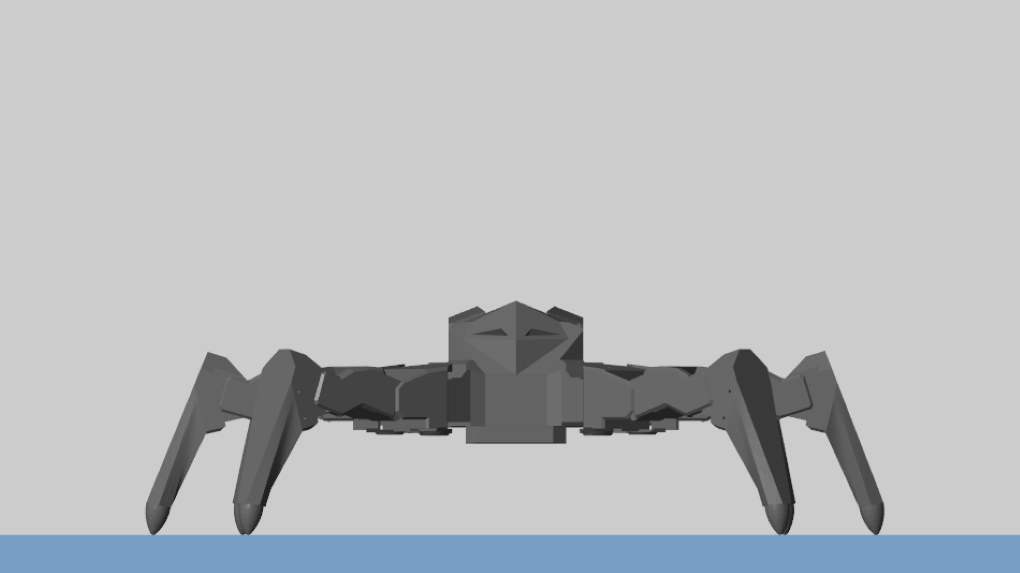
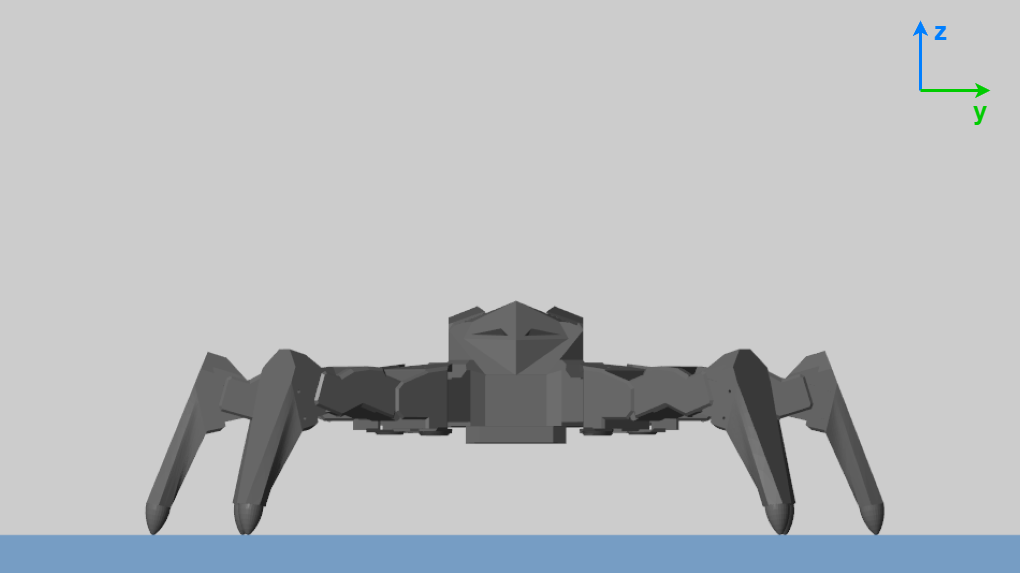
Created the 4 final RL graphs included in the thesis; fixed some TODOs

diff --git a/documents/chapter/results.tex b/documents/chapter/results.tex
@@ -61,7 +61,7 @@ A comparison of the thorax's height differences during movement, when under cont
 	\begin{subfigure}{\textwidth} % this sets the figure to be max half the width of the page
 		\centering
 		% include first image
-		\includegraphics[width=\linewidth]{ThoraxHeight_firstPID.PNG}  % this sets the image to fill 90% of the available space -> 45% of the line width in total. 
+		\includegraphics[width=.9\linewidth]{ThoraxHeight_firstPID.PNG}  % this sets the image to fill 90% of the available space -> 45% of the line width in total. 
 		\caption{}
 		\label{figure: Thorax Height graph, bad tuning}
 	\end{subfigure}
@@ -69,7 +69,7 @@ A comparison of the thorax's height differences during movement, when under cont
 	\begin{subfigure}{\textwidth}
 		\centering
 		% include third image
-		\includegraphics[width=\linewidth]{ThoraxHeight_retunedPID.PNG}   % this width should be half of the width of the other two images
+		\includegraphics[width=.9\linewidth]{ThoraxHeight_retunedPID.PNG}   % this width should be half of the width of the other two images
 		\caption{}
 		\label{figure: Thorax height graph, re-tuning}
 	\end{subfigure}
@@ -257,18 +257,18 @@ We therefore abstain from comparing the algorithms separately.
 	\begin{subfigure}{\textwidth} % this sets the figure to be max half the width of the page
 		\centering
 		% include first image
-		\includegraphics[width=\linewidth]{graphs/firstSuccess_146reward}  % this sets the image to fill 90% of the available space -> 45% of the line width in total. 
+		\includegraphics[width=\linewidth]{graphs/cropped/exploitGraph_cropped.PNG}  % this sets the image to fill 90% of the available space -> 45% of the line width in total. 
 		\caption{}
 		\label{figure: RL a}
 	\end{subfigure}
 	\begin{subfigure}{\textwidth}
 		\centering
 		% include second image
-		\includegraphics[width=\linewidth]{graphs/DDPG_reward_180.PNG}  
+		\includegraphics[width=\linewidth]{graphs/cropped/firstSuccess_146reward_cropped.PNG}  
 		\caption{}
 		\label{figure: RL b}
 	\end{subfigure} 
-		\caption[DDPG training graphs (1)]{DDPG training graphs (1). (a) first Success 146. (b) DDPG Reward 180. The graphs above each depict the learning curve of a RL agent. The dark blue graph represents the average reward (running average over the last 250 Episodes) and each data point on the light blue graph represents the reward of a specific episode.
+		\caption[Training graphs (1)]{Training graphs (1): Each graph depicts the learning curve of a RL agent. The dark blue graph represents the average reward over a running average of 250 episodes, while each data point on the light blue graph represents the reward obtained during a specific episode. (a) Jumping exploit learning curve. (b) Reward spiking.
 		}
 	\label{figure: DDPG learning graphs 1}
 \end{figure}
@@ -277,18 +277,18 @@ We therefore abstain from comparing the algorithms separately.
 	\begin{subfigure}{\textwidth} % this sets the figure to be max half the width of the page
 		\centering
 		% include first image
-		\includegraphics[width=\linewidth]{graphs/redefinedReward_50x_vx.PNG}  % this sets the image to fill 90% of the available space -> 45% of the line width in total. 
+		\includegraphics[width=\linewidth]{graphs/cropped/flatlining_cropped.PNG}  % this sets the image to fill 90% of the available space -> 45% of the line width in total. 
 		\caption{}
 		\label{figure: RL c}
 	\end{subfigure}
 	\begin{subfigure}{\textwidth}
 		\centering
 		% include second image
-		\includegraphics[width=\linewidth]{graphs/lastAgent_graph}  
+		\includegraphics[width=\linewidth]{graphs/cropped/lastAgent_graph_cropped.PNG}  
 		\caption{}
 		\label{figure: RL d}
 	\end{subfigure} 
-	\caption[DDPG training graphs (2)]{DDPG training graphs (2).  (a) redefined Reward 50x vx. (b) lastAgent.}
+	\caption[DDPG training graphs (2)]{DDPG training graphs (2):  (a) Reward flatlining (b) lastAgent.}
 	\label{figure: DDPG learning graphs 2}
 \end{figure}
 

diff --git a/documents/chapter/methods.tex b/documents/chapter/methods.tex
@@ -70,7 +70,6 @@ The representation solely consists of blocks from the Simscape library, more spe
 	\label{figure: PhantomX 3D model}
 \end{figure}
 \todo{get each image into list of figures, but exclude complete figure}
-\todo{add central axis to images}
 
 To be able to use the imported hexapod as a development platform, we modify and expand the raw Simulink model as it does not provide any means to exert control over or receive feedback from it.
 We reorganise and encapsulate logical groups, specifically the thorax and the individual legs, into library subsystems.

diff --git a/documents/chapter/background.tex b/documents/chapter/background.tex
@@ -222,8 +222,6 @@ In the following section we will describe the operation of a (digital) PID contr
 	\label{figure: PID Controller}
 \end{figure}
 
-\todo{Change d and dt to /partial in pid graphic}
-
 At each time step, the controller first calculates the error between its setpoint and the currently measured process variable: 
 \[
 	Error(t) = setpoint - process\ variable(t)
